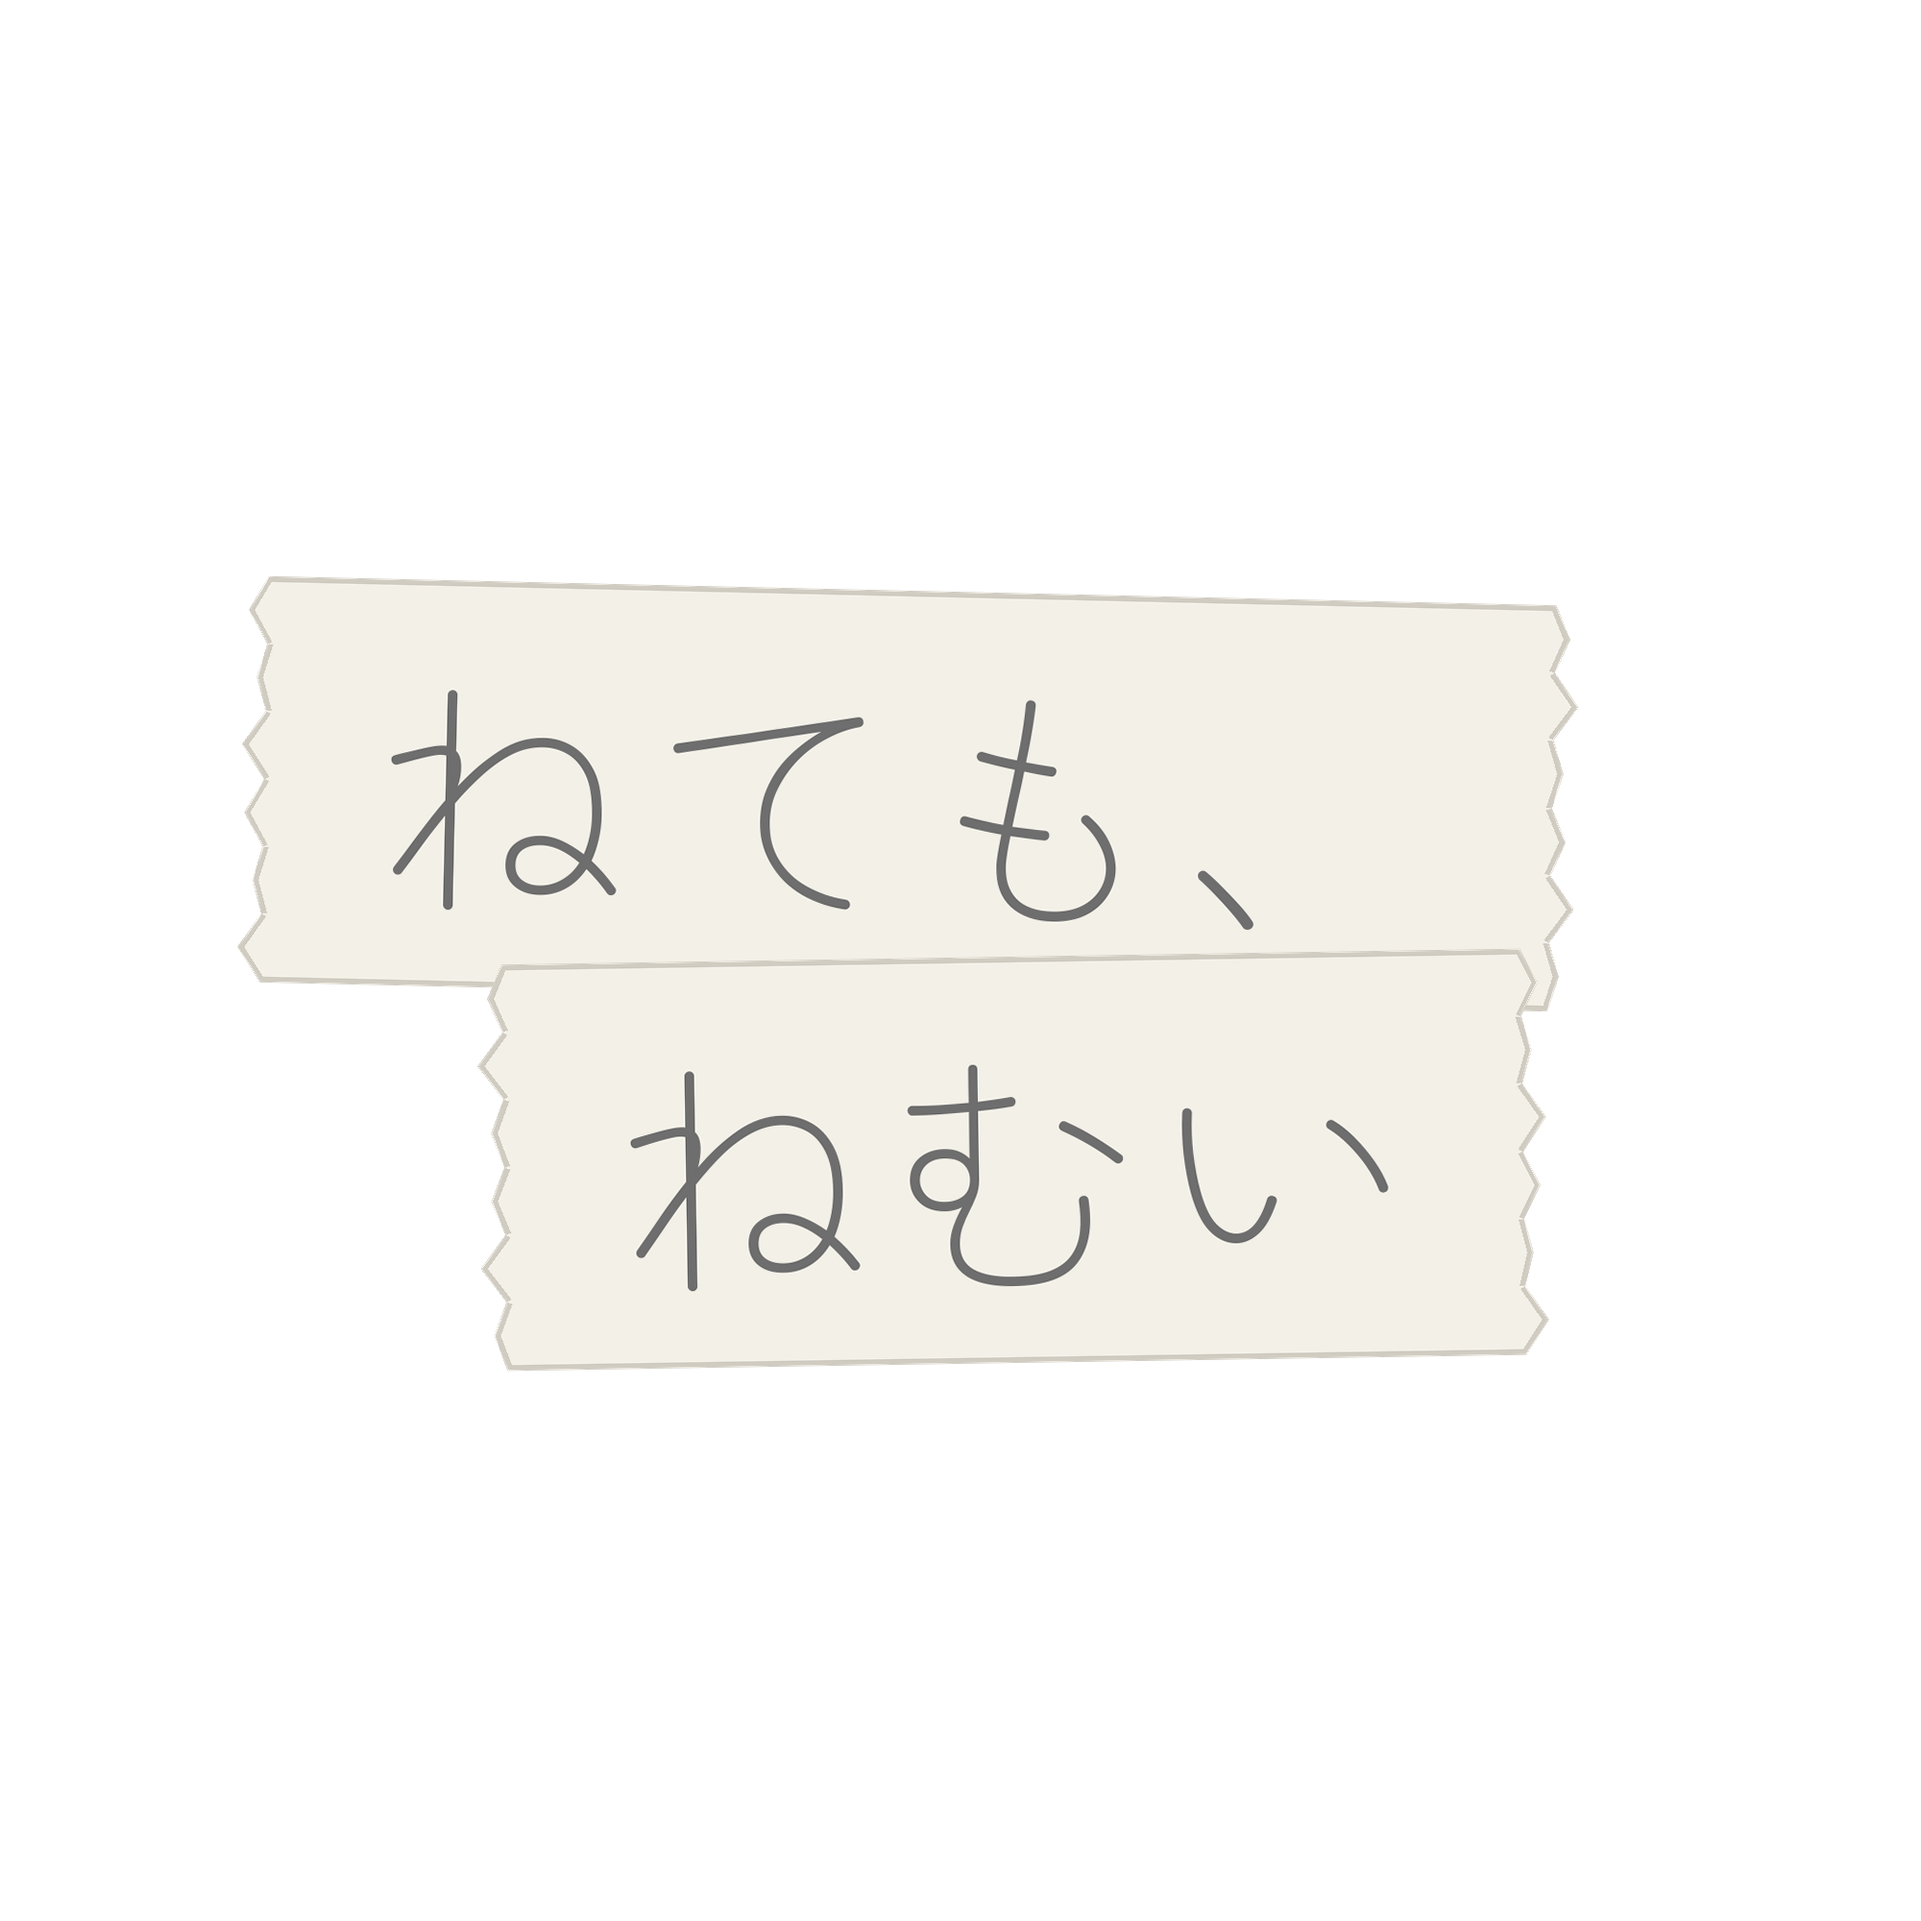
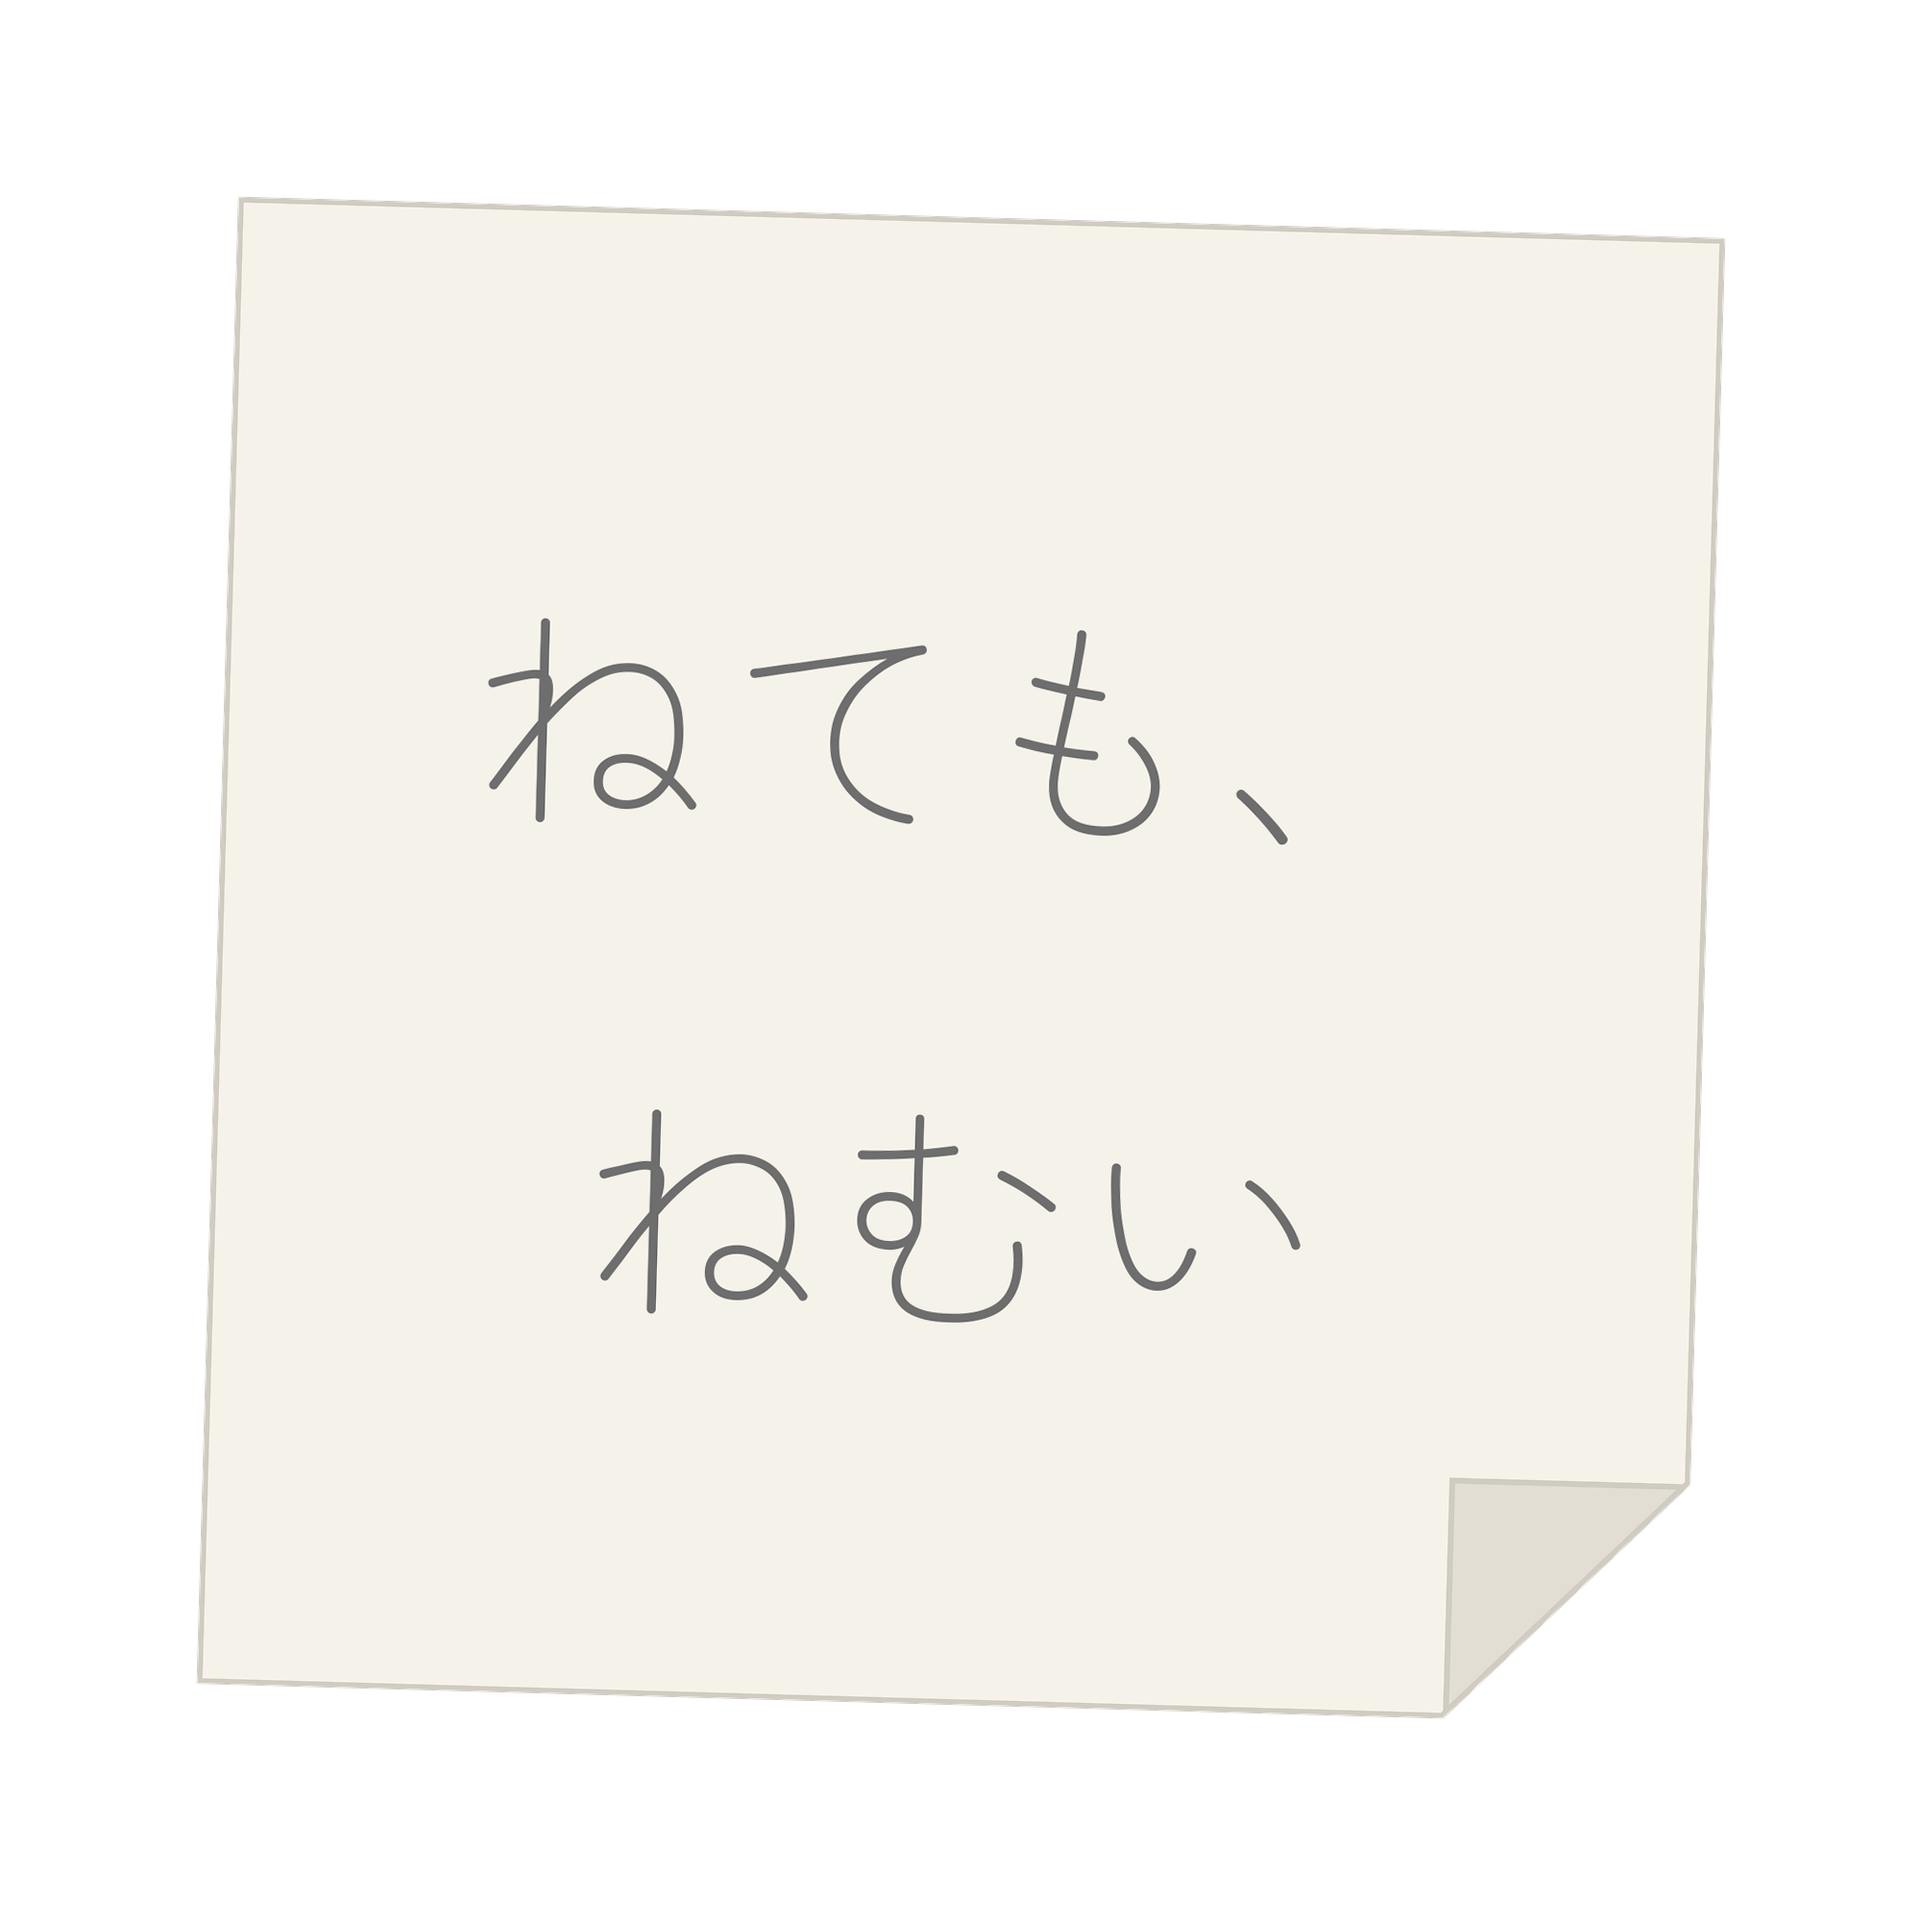
ステッカーを正方形の付箋風デザインに変更
生成り色の正方形に右下の紙めくれを付け、全体を-1.6度傾けて
手で貼った感を出した。1枚ものなのでカットラインは外周1本
(全9種で連結性を検証済み)。

Claude-Session: https://claude.ai/code/session_01Hth1TDsqnV3mvtVRGZwAwr

diff --git a/stickers/generate.py b/stickers/generate.py
@@ -2,14 +2,14 @@
 """「〜ても、シリーズ」ステッカー入稿データ生成スクリプト
 
 SUZURI入稿用の透過PNG(2000x2000)を stickers/png/ に出力する。
-デザインはマスキングテープ風: 1行=1本のテープ(両端ちぎれ)を上下に
-少し重ねて貼った見た目。重ねることでカットラインが1枚につながる。
+デザインは正方形の付箋風: 生成り色の正方形に右下の紙めくれ、
+全体をわずかに傾けて「手で貼った」感を出す。1枚ものなので
+カットラインは外周1本になる。
 フォント: Zen Maru Gothic Light (SIL Open Font License 1.1 / 商用利用可)
 
 使い方:
     python3 stickers/generate.py
 """
-import math
 import os
 import urllib.request
 
@@ -22,20 +22,19 @@ FONT_URL = (
 FONT_CACHE = os.path.join(os.path.dirname(__file__), "ZenMaruGothic-Light.ttf")
 
 CANVAS = 2000          # SUZURI推奨の大判サイズ
-MAX_LINE_WIDTH = 1380  # 文字の最大幅(テープの余白とちぎれ分を除く)
-MAX_FONT_SIZE = 280    # 短い行が間延びしないよう上限を設ける
 COLOR = (110, 110, 110, 255)  # グレー1色。色数を増やすと脱力が死ぬ
 
-TAPE_FILL = (243, 240, 232, 255)    # 生成り(マステの紙色)
-TAPE_BORDER = (208, 204, 194, 255)  # うっすら輪郭(白地で消えないように)
-TAPE_BORDER_W = 6
-TAPE_PAD_X = 110       # テープ端から文字までの余白
-TAPE_HEIGHT_EM = 1.55  # フォントサイズに対するテープの高さ
-TEAR_AMP = 26          # ちぎれのギザギザの深さ
-TEAR_TEETH = 6         # ギザギザの山の数
-OVERLAP_RATIO = 0.18   # 上下テープの重なり(切り離れないための連結部)
-LINE_OFFSET_X = 55     # 上下テープの左右ズレ(手で貼った感)
-ANGLES = (-1.3, 0.9)   # 上下テープの微妙な傾き(度)
+NOTE_SIZE = 1560       # 付箋の一辺
+NOTE_FILL = (245, 242, 234, 255)    # 生成り(付箋の紙色)
+NOTE_BORDER = (208, 204, 194, 255)  # うっすら輪郭(白地で消えないように)
+NOTE_BORDER_W = 6
+FOLD_SIZE = 250        # 右下の紙めくれの大きさ
+FOLD_FILL = (226, 222, 211, 255)    # めくれの裏面(本体よりやや暗い)
+NOTE_ANGLE = -1.6      # 全体の傾き(手で貼った感)
+
+PAD_X = 150            # 付箋の端から文字までの余白
+MAX_FONT_SIZE = 260    # 短い行が間延びしないよう上限を設ける
+LINE_SPACING = 1.35    # 行間(脱力感を出すためやや広め)
 
 STICKERS = [
     ("01-kaettemo", "かえっても、かえりたい"),
@@ -63,46 +62,43 @@ def split_lines(text):
 
 
 def fit_font_size(lines):
+    max_width = NOTE_SIZE - PAD_X * 2
     size = MAX_FONT_SIZE
     while size > 10:
         font = load_font(size)
-        if max(font.getbbox(line)[2] for line in lines) <= MAX_LINE_WIDTH:
+        if max(font.getbbox(line)[2] for line in lines) <= max_width:
             return size
         size -= 4
     return size
 
 
-def tear_edge(x_base, y_top, y_bottom, direction, phase):
-    """テープ端のちぎれ(ギザギザ)の頂点列を上から下へ返す"""
-    pts = []
-    steps = TEAR_TEETH * 2
-    for i in range(steps + 1):
-        y = y_top + (y_bottom - y_top) * i / steps
-        # 固定パターンの疑似乱数(再生成しても同じ形になる)
-        wob = math.sin(phase + i * 2.1) * 0.5 + 0.5
-        depth = TEAR_AMP * (0.35 + 0.65 * wob) if i % 2 else 0
-        pts.append((x_base + direction * depth, y))
-    return pts
-
-
-def tape_strip(line, font, size, phase):
-    """1行ぶんのテープ(ちぎれ両端)を透過レイヤーで返す"""
-    text_w = int(font.getbbox(line)[2])
-    strip_h = int(size * TAPE_HEIGHT_EM)
-    strip_w = text_w + TAPE_PAD_X * 2 + TEAR_AMP * 2
-    layer = Image.new("RGBA", (strip_w, strip_h), (0, 0, 0, 0))
+def fusen_note(lines, font):
+    """付箋(右下めくれつき)を透過レイヤーで返す"""
+    n = NOTE_SIZE
+    layer = Image.new("RGBA", (n, n), (0, 0, 0, 0))
     draw = ImageDraw.Draw(layer)
 
-    xl, xr = TEAR_AMP, strip_w - TEAR_AMP
-    yt, yb = TAPE_BORDER_W, strip_h - TAPE_BORDER_W
-    right = tear_edge(xr, yt, yb, +1, phase)
-    left = tear_edge(xl, yb, yt, -1, phase + 3.7)
-    poly = [(xl, yt), (xr, yt)] + right + [(xr, yb), (xl, yb)] + left
-    draw.polygon(poly, fill=TAPE_FILL, outline=TAPE_BORDER, width=TAPE_BORDER_W)
+    b = NOTE_BORDER_W
+    f = FOLD_SIZE
+    # 右下の角を三角に落とした本体
+    body = [
+        (b, b), (n - b, b),
+        (n - b, n - b - f), (n - b - f, n - b),
+        (b, n - b),
+    ]
+    draw.polygon(body, fill=NOTE_FILL, outline=NOTE_BORDER, width=b)
+    # めくれた紙の裏面
+    fold = [(n - b - f, n - b), (n - b, n - b - f), (n - b - f, n - b - f)]
+    draw.polygon(fold, fill=FOLD_FILL, outline=NOTE_BORDER, width=b)
 
     ascent, descent = font.getmetrics()
-    ty = (strip_h - ascent - descent) // 2
-    draw.text(((strip_w - text_w) // 2, ty), line, font=font, fill=COLOR)
+    line_height = int((ascent + descent) * LINE_SPACING)
+    total_height = line_height * (len(lines) - 1) + ascent + descent
+    y = (n - total_height) // 2
+    for line in lines:
+        w = draw.textlength(line, font=font)
+        draw.text(((n - w) // 2, y), line, font=font, fill=COLOR)
+        y += line_height
     return layer
 
 
@@ -111,24 +107,13 @@ def render(slug, text):
     size = fit_font_size(lines)
     font = load_font(size)
 
+    note = fusen_note(lines, font)
+    note = note.rotate(NOTE_ANGLE, expand=True, resample=Image.BICUBIC)
+
     img = Image.new("RGBA", (CANVAS, CANVAS), (0, 0, 0, 0))
-
-    strips = []
-    for i, line in enumerate(lines):
-        layer = tape_strip(line, font, size, phase=1.3 + i * 2.9)
-        layer = layer.rotate(ANGLES[i], expand=True, resample=Image.BICUBIC)
-        strips.append(layer)
-
-    strip_h = int(size * TAPE_HEIGHT_EM)
-    overlap = int(strip_h * OVERLAP_RATIO)
-    total_h = strips[0].height + strips[1].height - overlap - TEAR_AMP
-    top = (CANVAS - total_h) // 2
-    offsets = (-LINE_OFFSET_X, LINE_OFFSET_X)
-    y = top
-    for layer, dx in zip(strips, offsets):
-        x = (CANVAS - layer.width) // 2 + dx
-        img.alpha_composite(layer, (x, y))
-        y += layer.height - overlap
+    img.alpha_composite(
+        note, ((CANVAS - note.width) // 2, (CANVAS - note.height) // 2)
+    )
 
     # 回転補間で生じるごく薄いノイズ画素を落とす
     # (残すとSUZURI側のカットライン自動生成が誤検出しかねない)
@@ -148,7 +133,7 @@ def preview_sheet():
     cell = 640
     cols = 3
     rows = (len(STICKERS) + cols - 1) // cols
-    # ステッカーの輪郭(カットライン)が見えるよう、テープより暗い背景にする
+    # ステッカーの輪郭(カットライン)が見えるよう、付箋より暗い背景にする
     sheet = Image.new("RGB", (cell * cols, cell * rows), (206, 203, 197))
     out_dir = os.path.join(os.path.dirname(__file__), "png")
     for i, (slug, _) in enumerate(STICKERS):
